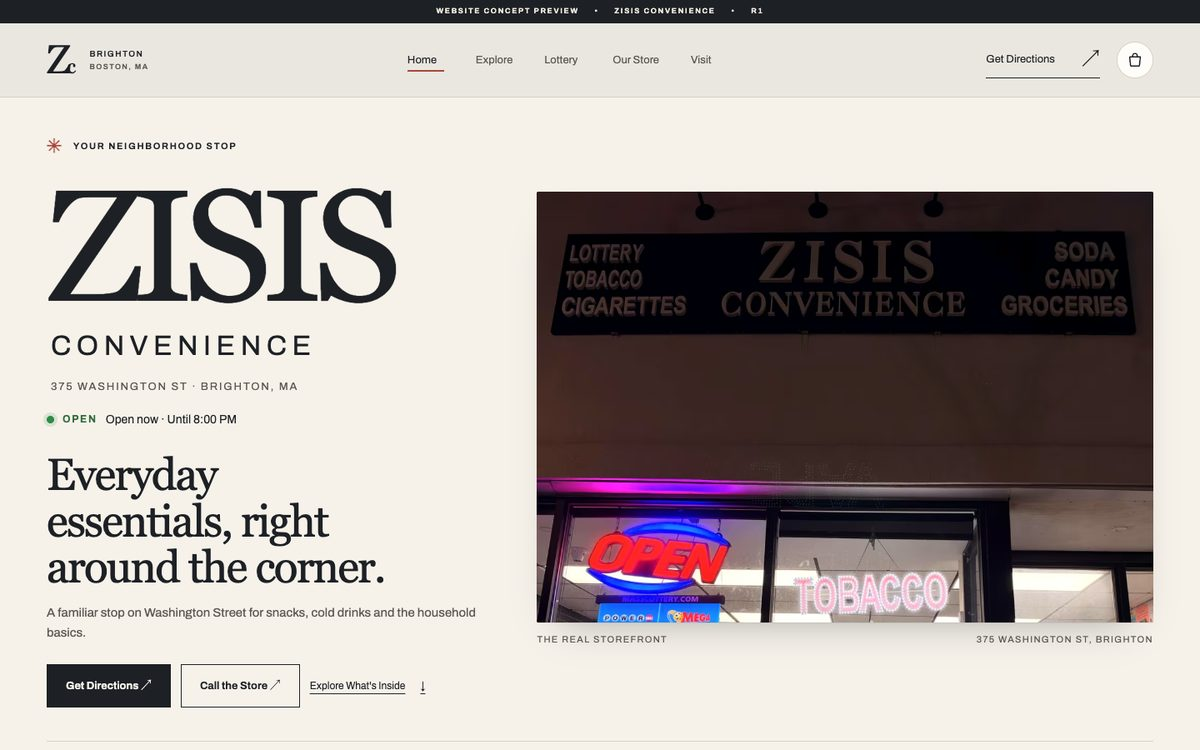
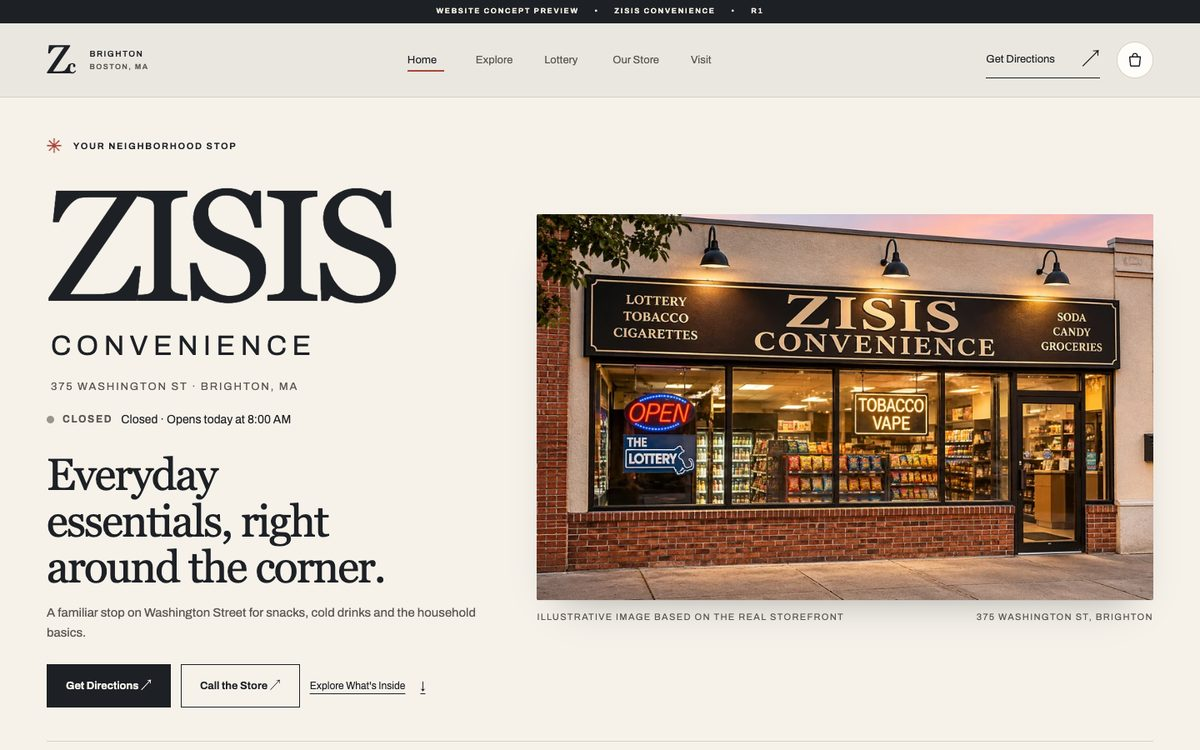
Client Demos: Zisis r1 newest preview (4015e345, 00c93b5): 50 products, illustrative hero, new thumbnail

Changed region(s): [[0.4317, 0.2453, 0.9867, 0.8587], [0.0308, 0.552, 0.2467, 0.5827]]

diff --git a/lib/client-sites.ts b/lib/client-sites.ts
@@ -181,12 +181,12 @@ export const CLIENT_SITES: ClientSite[] = [
     name: 'Zisis Convenience Store',
     client: 'Zisis Convenience Store · neighborhood convenience store, 375 Washington Street, Brighton, Massachusetts',
     collection: 'demo',
-    summary: 'Interactive neighborhood convenience-store website concept featuring live hours, searchable everyday essentials, original storefront photography, and responsive design. Client Demo 04, preview only (r1). Confirmed by Andrew: phone 617-785-2938, open daily 8 AM–8 PM (live Boston-time status), cash and card. Ivory hero with the real storefront sign; Uber Eats-style catalog of 28 branded products (26 package photos from Andrew\'s list, 2 shown as "photo coming soon") with sample prices, category chips, search, cart with quantities and a checkout preview in demo mode ("Live checkout available after merchant activation"; nothing is ordered or charged). Owner still to confirm: real stock and prices, image rights before any launch, holiday hours, ATM, parking/accessibility, card minimums/EBT, and whether to activate Uber Eats ordering. Not on a custom domain.',
+    summary: 'Interactive neighborhood convenience-store website concept featuring live hours, searchable everyday essentials, original storefront photography, and responsive design. Client Demo 04, preview only (r1). Confirmed by Andrew: phone 617-785-2938, open daily 8 AM–8 PM (live Boston-time status), cash and card. Ivory hero with an illustrative storefront image supplied by Andrew (captioned as illustrative; real photos stay in the gallery); Uber Eats-style catalog of 50 branded products, 10 per category (48 package photos; Smucker\'s Strawberry and Campbell\'s Tomato sources are dead, shown as "photo coming soon") with sample prices, category chips, search, cart with quantities and a checkout preview in demo mode ("Live checkout available after merchant activation"; nothing is ordered or charged). Owner still to confirm: real stock and prices, image rights before any launch, holiday hours, ATM, parking/accessibility, card minimums/EBT, and whether to activate Uber Eats ordering. Not on a custom domain.',
     stage: 'In review',
     liveUrl: 'https://r1.zisis-convenience-preview.pages.dev',
-    pinnedUrl: 'https://93d21a87.zisis-convenience-preview.pages.dev',
+    pinnedUrl: 'https://4015e345.zisis-convenience-preview.pages.dev',
     hosting: 'Cloudflare Pages project zisis-convenience-preview (Andrew personal account), preview branch r1, noindex',
-    thumbnail: { src: '/client-sites/zisis-convenience.jpg', alt: 'Zisis Convenience preview: ivory hero with the real storefront sign and Get Directions button', width: 1200, height: 750 },
+    thumbnail: { src: '/client-sites/zisis-convenience.jpg', alt: 'Zisis Convenience preview: ivory hero with the illustrative storefront image and Get Directions button', width: 1200, height: 750 },
     repo: {
       host: 'gitlab',
       owner: 'andrew-makar-personal-projects-group',
@@ -198,11 +198,11 @@ export const CLIENT_SITES: ClientSite[] = [
         name: 'r1',
         owner: 'Andrew',
         previewUrl: 'https://r1.zisis-convenience-preview.pages.dev',
-        note: 'Preview only; not on a domain. Pinned URL: https://93d21a87.zisis-convenience-preview.pages.dev (built from 784ea781). Built by Codex, finished by President Claude Nov 16. QA on the live preview: 267/267 at 390, 768, 1024 and 1440 wide (catalog, cart math and persistence, checkout preview, focus traps), zero axe violations; Lighthouse 13.6.0 100/100/100 on mobile and desktop (SEO 58 by design: noindex). Product photos are retailer reference images (rights not cleared) and prices are sample prices.',
-        commitSha: '784ea78133c6b8121ee88cfe66e4fb9fee1b47ad',
-        commitMessage: 'Shopping preview: sample prices, cart with quantities and persistence, checkout preview, ordering demo/live switch',
-        commitDate: '2026-11-17T00:50:50Z',
-        commitUrl: 'https://gitlab.com/andrew-makar-personal-projects-group/zisis-convenience-site/-/commit/784ea78133c6b8121ee88cfe66e4fb9fee1b47ad',
+        note: 'Preview only; not on a domain. Pinned URL: https://4015e345.zisis-convenience-preview.pages.dev (built from 00c93b5e). Built by Codex, finished by President Claude Nov 16. QA on the live preview: 271/271 at 390, 768, 1024 and 1440 wide (catalog, cart math and persistence, checkout preview, focus traps), zero axe violations; Lighthouse 13.6.0 mobile 99/100/100 (SEO 58 by design: noindex). Product photos are retailer reference images (rights not cleared) and prices are sample prices.',
+        commitSha: '00c93b5eef3e029a6598501f7031d52b213b0dc0',
+        commitMessage: "Hero: Andrew's illustrative storefront image (desktop/mobile + OG), captioned as illustrative",
+        commitDate: '2026-11-17T09:18:20Z',
+        commitUrl: 'https://gitlab.com/andrew-makar-personal-projects-group/zisis-convenience-site/-/commit/00c93b5eef3e029a6598501f7031d52b213b0dc0',
       },
     ],
   },

diff --git a/tests/client-sites.test.ts b/tests/client-sites.test.ts
@@ -100,7 +100,7 @@ test('Zisis Convenience r1 is Client Demo 04 on GitLab with the verified Pages p
   assert.equal(site.alsoIn, undefined);
   assert.equal(site.stage, 'In review');
   assert.equal(site.liveUrl, 'https://r1.zisis-convenience-preview.pages.dev');
-  assert.equal(site.pinnedUrl, 'https://93d21a87.zisis-convenience-preview.pages.dev');
+  assert.equal(site.pinnedUrl, 'https://4015e345.zisis-convenience-preview.pages.dev');
   assert.match(site.hosting, /Cloudflare Pages.*zisis-convenience-preview/);
   assert.match(site.summary, /^Interactive neighborhood convenience-store website concept/);
   assert.equal(site.repo.host, 'gitlab');
@@ -109,7 +109,7 @@ test('Zisis Convenience r1 is Client Demo 04 on GitLab with the verified Pages p
   assert.deepEqual(site.branches.map((b) => b.name), ['r1']);
   const r1 = site.branches[0];
   assert.equal(r1?.previewUrl, site.liveUrl);
-  assert.equal(r1?.commitSha, '784ea78133c6b8121ee88cfe66e4fb9fee1b47ad');
+  assert.equal(r1?.commitSha, '00c93b5eef3e029a6598501f7031d52b213b0dc0');
   assert.equal(r1?.commitUrl, `https://gitlab.com/andrew-makar-personal-projects-group/zisis-convenience-site/-/commit/${r1?.commitSha}`);
   assert.equal(site.thumbnail?.src, '/client-sites/zisis-convenience.jpg');
   assert.ok((site.thumbnail?.alt ?? '').length > 10);
